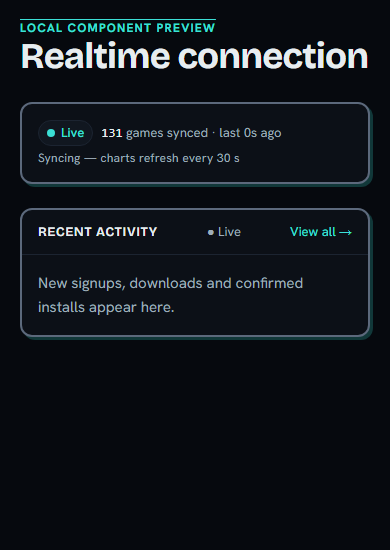
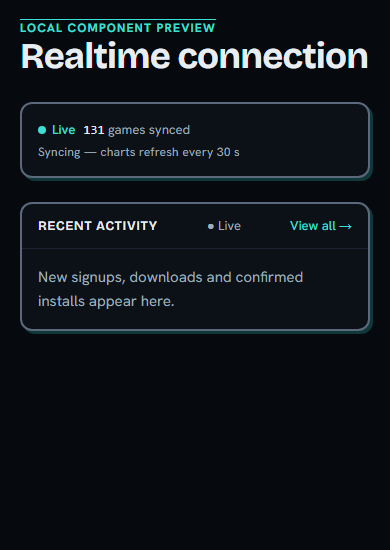
fix(realtime): wrap bulk sync notice in compact headers

Changed region(s): [[0.0308, 0.2164, 0.9538, 0.4636], [0.0308, 0.4945, 0.9538, 0.6182]]

diff --git a/apps/web/components/SyncStatus.tsx b/apps/web/components/SyncStatus.tsx
@@ -42,7 +42,7 @@ export function SyncStatus({ total: initialTotal, latest, userId, compact = fals
   const visual = visualForState(conn);
 
   return (
-    <p className={`flex items-center gap-x-2 text-caption text-text-muted ${compact ? "whitespace-nowrap" : "flex-wrap gap-y-1"}`}>
+    <p className={`flex flex-wrap items-center gap-x-2 gap-y-1 text-caption text-text-muted ${compact ? "whitespace-nowrap" : ""}`}>
       <span
         role="status"
         aria-live="polite"
@@ -72,7 +72,7 @@ export function SyncStatus({ total: initialTotal, latest, userId, compact = fals
         synced
         {latestAt ? <span title={new Date(latestAt).toLocaleString()} className={compact ? "sr-only sm:not-sr-only" : undefined}>{` · last ${formatRelative(latestAt, now)}`}</span> : null}
       </span>
-      {realtime.bulk ? <span role="status" className="max-w-[14rem] whitespace-normal text-micro text-text-muted">Syncing — charts refresh every 30 s</span> : null}
+      {realtime.bulk ? <span role="status" className="max-w-[14rem] basis-full whitespace-normal text-micro text-text-muted xl:basis-auto">Syncing — charts refresh every 30 s</span> : null}
       {conn.kind === "reconnecting" && conn.attempts >= 3 ? (
         <span className={`text-caption text-warning ${compact ? "sr-only sm:not-sr-only" : ""}`}>
           retry {conn.attempts}…
